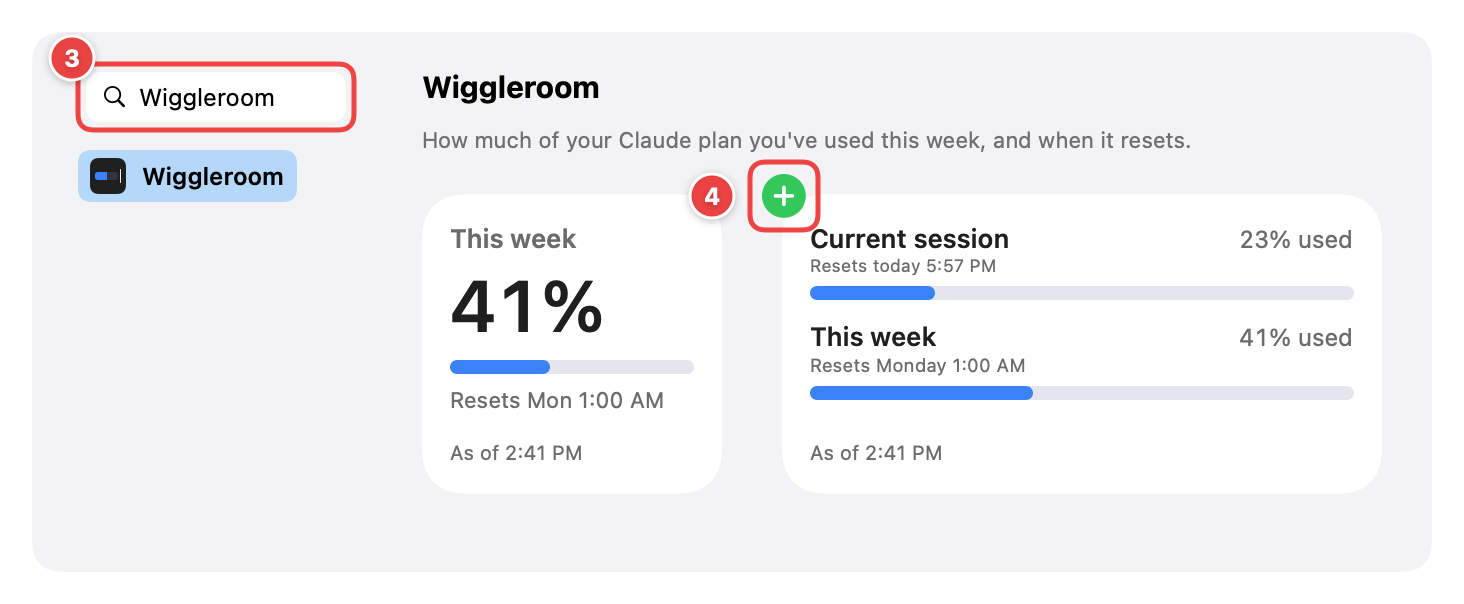
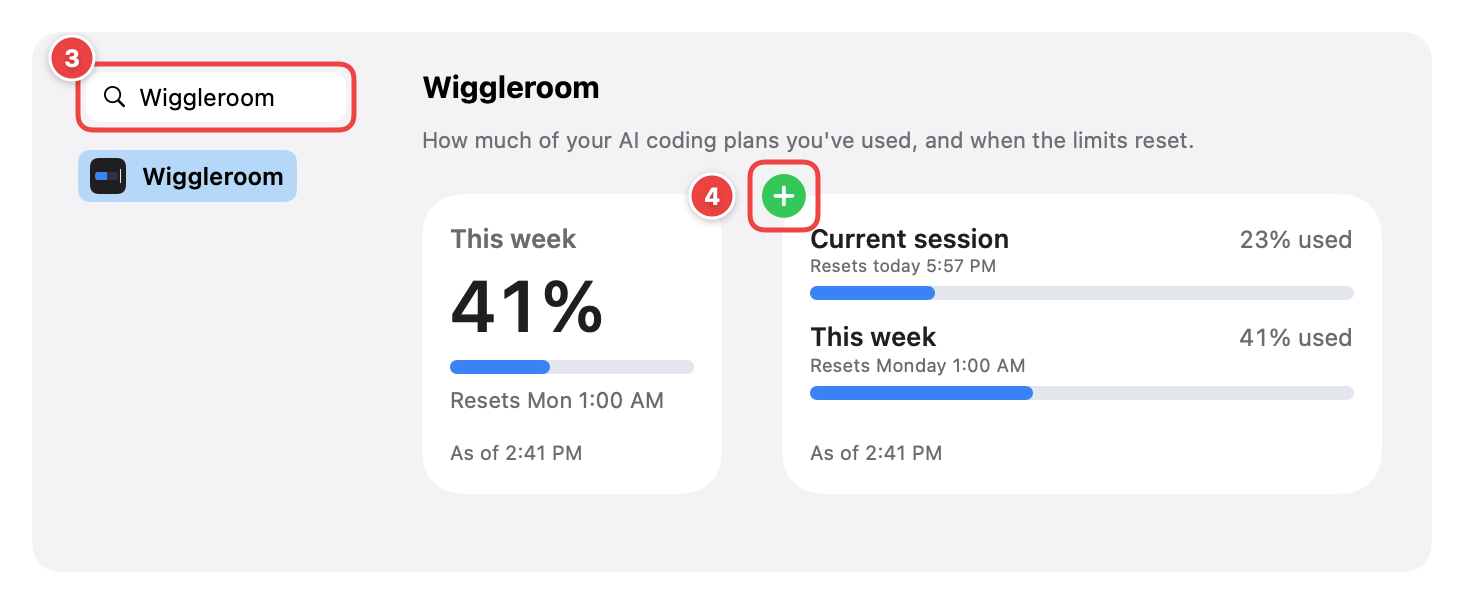
Docs for 0.2.0: Codex, Tools, docs/TOOLS.md; version 0.2.0 (3)
- docs/TOOLS.md: supported tools, the ones not yet supported and why, how Codex's log is read.
- README, install guide (step 5: add Codex), privacy (reading Codex), site, release notes.
- Version 0.2.0, build 3; cask version 0.2.0 (checksum after the release).

Changed region(s): [[0.3996, 0.2086, 0.7992, 0.2682]]

diff --git a/site/index.html b/site/index.html
@@ -3,8 +3,8 @@
 <head>
 <meta charset="utf-8">
 <meta name="viewport" content="width=device-width, initial-scale=1">
-<title>Wiggleroom: Claude plan usage on your Mac</title>
-<meta name="description" content="A free, open-source Mac widget that shows how much of your Claude plan's weekly and 5-hour limits you've used, and when they reset. No sign-in, no network, no tokens.">
+<title>Wiggleroom: every AI coding limit in one glance</title>
+<meta name="description" content="A free, open-source Mac widget that shows how much of your Claude Code and Codex plans' weekly and 5-hour limits you've used, and when they reset. No sign-in, no network, no tokens.">
 <link rel="icon" href="icon.svg" type="image/svg+xml">
 <style>
   :root {
@@ -58,24 +58,24 @@
     <img src="icon.svg" alt="">
     <h1>Wiggleroom</h1>
   </header>
-  <p class="tag">See how much of your Claude plan you've used this week, and when it resets, right in your Mac's Notification Center.</p>
+  <p class="tag">Every AI coding limit in one glance. See how much of your Claude Code and Codex plans you've used, and when the limits reset, right in your Mac's Notification Center.</p>
 
   <div class="hero">
-    <div class="widget" role="img" aria-label="Example widget: current session 23% used, this week 41% used">
+    <div class="widget" role="img" aria-label="Example widget, All tools: Codex 64% used this week, Claude Code 41% used this week">
       <div class="row">
-        <div class="top"><span class="label">Current session</span><span class="pct">23% used</span></div>
-        <div class="reset">Resets in 3 hr 12 min</div>
-        <div class="bar"><span style="width:23%"></span></div>
+        <div class="top"><span class="label">Codex</span><span class="pct">64% used</span></div>
+        <div class="reset">This week · resets Mon 1:00 AM</div>
+        <div class="bar"><span style="width:64%"></span></div>
       </div>
       <div class="row">
-        <div class="top"><span class="label">This week</span><span class="pct">41% used</span></div>
-        <div class="reset">Resets Monday 1:00 AM</div>
+        <div class="top"><span class="label">Claude Code</span><span class="pct">41% used</span></div>
+        <div class="reset">This week · resets Mon 1:00 AM</div>
         <div class="bar"><span style="width:41%"></span></div>
       </div>
       <div class="foot">As of 2:41 PM</div>
     </div>
     <div>
-      <p>Wiggleroom is a free, open-source widget for people who use <strong>Claude Code</strong> on a Pro, Max or Ultra plan. It shows the same numbers as the usage page in Claude's settings, without opening anything.</p>
+      <p>Wiggleroom is a free, open-source widget for people who use <strong>Claude Code</strong> on a Pro, Max or Ultra plan, <strong>Codex</strong> with a ChatGPT plan, or both. It shows the same numbers as each tool's own usage display, without opening anything.</p>
       <div class="cta">
         <a class="btn" href="https://github.com/garoknows/wiggleroom/releases/latest">Download for Mac</a>
         <a class="btn ghost" href="https://github.com/garoknows/wiggleroom">Source code</a>
@@ -86,29 +86,32 @@
 
   <h2>Private by design</h2>
   <div class="grid">
-    <div class="card"><h3>No sign-in</h3><p>Wiggleroom never asks for your Claude account and never reads tokens, passwords or browser cookies.</p></div>
+    <div class="card"><h3>No sign-in</h3><p>Wiggleroom never asks for your Claude or ChatGPT account and never reads tokens, passwords or browser cookies.</p></div>
     <div class="card"><h3>No internet</h3><p>There is no network code in the app or the widget. Your numbers never leave your Mac.</p></div>
-    <div class="card"><h3>Keeps almost nothing</h3><p>Only the percent used, the reset times and when they were updated. No prompts, folders, costs or account details.</p></div>
+    <div class="card"><h3>Keeps almost nothing</h3><p>Only the percent used, the reset times and when they were updated, for each tool. No prompts, folders, costs or account details.</p></div>
   </div>
 
   <h2>How it works</h2>
   <p>Every time Claude Code gets a reply, it hands your plan's usage numbers to its <em>status line</em>, a small command you can set up to show information under the prompt. Wiggleroom adds a tiny helper there that saves just those numbers and then runs your existing status line exactly as before.</p>
+  <p><strong>Codex</strong> writes a usage event into its own session log on your Mac after each reply. When you connect Codex, Wiggleroom reads only those numbers from the end of the newest log, read-only, and changes nothing in Codex.</p>
   <ol>
-    <li>Install Wiggleroom and open it.</li>
+    <li>Install Wiggleroom and open it (or <code>brew install --cask garoknows/tap/wiggleroom</code>).</li>
     <li>Click <strong>Connect to Claude Code</strong>. Wiggleroom backs up your Claude Code settings first, and <strong>Disconnect</strong> puts them back.</li>
-    <li>Add the Wiggleroom widget to Notification Center (click the date and time in the menu bar, then <strong>Edit Widgets</strong>).</li>
+    <li>Using Codex too? In Settings, under <strong>Tools</strong>, click <strong>Connect</strong> next to Codex.</li>
+    <li>Add the Wiggleroom widget to Notification Center (click the date and time in the menu bar, then <strong>Edit Widgets</strong>). Right-click it and choose <strong>Edit Widget</strong> to show Claude Code, Codex or All tools.</li>
   </ol>
+  <p>Wiggleroom adds a tool only when it hands out its limits in a way its maker supports. <a href="https://github.com/garoknows/wiggleroom/blob/main/docs/TOOLS.md">See which tools are supported and which are coming.</a></p>
 
   <h2>Good to know</h2>
   <ul>
-    <li><strong>Numbers update when Claude Code replies.</strong> Chats on claude.ai or in the Claude app use the same limits, but they show up in Wiggleroom at your next Claude Code reply. The "As of" time tells you how fresh the numbers are, and turns amber after 30 minutes.</li>
-    <li><strong>Reset times are always right,</strong> because Claude Code sends the exact moment each limit resets.</li>
-    <li>Optional alerts when you pass 90% of your weekly limit (or a level you choose), once per week.</li>
-    <li>Optional menu bar item with your weekly percent.</li>
+    <li><strong>Numbers update when a tool replies.</strong> Use on claude.ai, in the Claude app or in Codex's cloud counts toward the same limits, but shows up in Wiggleroom at the tool's next reply on your Mac. The "As of" time tells you how fresh the numbers are, and turns amber after 30 minutes.</li>
+    <li><strong>Reset times are always right,</strong> because both tools report the exact moment each limit resets.</li>
+    <li>Optional alerts when a tool passes 90% of a limit (or a level you choose), once per level, per tool, per limit.</li>
+    <li>Optional menu bar item with the weekly percent of whichever tool is closest to its limit.</li>
   </ul>
 
   <footer>
-    Wiggleroom is an independent open-source project (MIT License). It is not made by, affiliated with or endorsed by Anthropic. "Claude" is used only to describe what Wiggleroom works with.
+    Wiggleroom is an independent open-source project (MIT License). It is not made by, affiliated with or endorsed by Anthropic or OpenAI. "Claude", "Claude Code" and "Codex" are used only to describe what Wiggleroom works with.
   </footer>
 </main>
 </body>

diff --git a/Casks/wiggleroom.rb b/Casks/wiggleroom.rb
@@ -1,12 +1,12 @@
 # The Homebrew cask, published in garoknows/homebrew-tap (brew install --cask garoknows/tap/wiggleroom).
 # scripts/update-cask.sh fills in the version and sha256 from a release; copy the result to the tap.
 cask "wiggleroom" do
-  version "0.1.1"
[1 lines of base64/hex data omitted]
+  version "0.2.0"
+  sha256 "0000000000000000000000000000000000000000000000000000000000000000"
 
   url "https://github.com/garoknows/wiggleroom/releases/download/v#{version}/Wiggleroom-#{version}.dmg"
   name "Wiggleroom"
-  desc "Claude plan usage and reset times in Notification Center"
+  desc "Claude Code and Codex plan limits in Notification Center"
   homepage "https://garoknows.github.io/wiggleroom/"
 
   livecheck do

diff --git a/README.md b/README.md
@@ -1,19 +1,20 @@
 # Wiggleroom
 
-**Your Claude plan usage, in Mac Notification Center.** See how much of your weekly and 5-hour limits you've used, and when each one resets, without opening anything.
+**Every AI coding limit in one glance, in Mac Notification Center.** See how much of your Claude Code and Codex plans' weekly and 5-hour limits you've used, and when each one resets, without opening anything.
 
 <p>
-  <img src="docs/images/widget-medium-dark-normal.png" width="364" alt="Wiggleroom medium widget in dark mode: Current session 23% used, resets today 5:57 PM; This week 41% used, resets Monday 1:00 AM; as of 2:41 PM">
-  <img src="docs/images/widget-small-light-normal.png" width="170" alt="Wiggleroom small widget in light mode: This week 41%, resets Mon 1:00 AM">
+  <img src="docs/images/widget-medium-dark-all-tools.png" width="364" alt="Wiggleroom medium widget in dark mode, All tools: Codex 64% used this week, resets Monday 1:00 AM; Claude Code 41% used this week, resets Monday 1:00 AM; as of 2:41 PM">
+  <img src="docs/images/widget-small-light-normal.png" width="170" alt="Wiggleroom small widget in light mode: Claude Code, this week 41%, resets Mon 1:00 AM">
 </p>
 
-Wiggleroom is a free, open-source widget (plus an optional menu bar item) for people who use **Claude Code** on a Pro, Max or Ultra plan. It shows the same numbers as the usage page in Claude's settings.
+Wiggleroom is a free, open-source widget (plus an optional menu bar item) for people who use **Claude Code** on a Pro, Max or Ultra plan, **Codex** with a ChatGPT plan, or both. It shows the same numbers as each tool's own usage display.
 
-- **No sign-in, no tokens, no internet.** Wiggleroom has no network code at all. It never reads your Claude login, the Keychain or browser cookies.
-- **Keeps almost nothing.** Only the percent used, the reset times, the limit names and when they were updated.
-- **Leaves your setup alone.** Your existing Claude Code status line keeps working exactly as before, and Disconnect puts your settings back.
+- **No sign-in, no tokens, no internet.** Wiggleroom has no network code at all. It never reads your Claude or Codex login, the Keychain or browser cookies.
+- **Keeps almost nothing.** Only the percent used, the reset times, the limit names and when they were updated, for each tool.
+- **Leaves your setup alone.** Your existing Claude Code status line keeps working exactly as before, and Disconnect puts your settings back. Connecting Codex changes nothing in Codex.
+- **Only official channels.** A tool is added only when it hands out its limits in a way its maker supports. See [which tools are supported and which are coming](docs/TOOLS.md).
 
-[Website](https://garoknows.github.io/wiggleroom/) · [Download](https://github.com/garoknows/wiggleroom/releases) · [Install guide](docs/INSTALL.md) · [Privacy](docs/PRIVACY.md)
+[Website](https://garoknows.github.io/wiggleroom/) · [Download](https://github.com/garoknows/wiggleroom/releases) · [Install guide](docs/INSTALL.md) · [Tools](docs/TOOLS.md) · [Privacy](docs/PRIVACY.md)
 
 ## How it works
 
@@ -26,6 +27,8 @@ When you click **Connect to Claude Code**, Wiggleroom adds a tiny helper to that
 3. runs your previous status line command, if you had one, with the same input, so what you see in Claude Code doesn't change.
 
 The Wiggleroom app notices the new file, checks it, and passes it to the widget.
+
+**Codex** works differently, because it has no status line command yet. After each reply, Codex writes a usage event into its own session log on your Mac. When you click **Connect** next to Codex in Settings, Wiggleroom starts watching that folder and, after each reply, reads only the usage numbers from the end of the newest log, read-only. Nothing in Codex changes, and nothing else from the log is kept. [More about how Codex is read](docs/TOOLS.md#how-wiggleroom-treats-codexs-log).
 
 ```
 Claude Code ──(status line data)──> wiggleroom-statusline ──> your usual status line (unchanged)
@@ -40,6 +43,7 @@ Claude Code ──(status line data)──> wiggleroom-statusline ──> your u
 2. Open Wiggleroom from Applications. A setup window appears.
 3. Click **Connect to Claude Code**, then send any message in Claude Code.
 4. Add the widget: click the date and time in the menu bar, scroll down, click **Edit Widgets**, search for Wiggleroom, and click the green **+**.
+5. Use Codex too? Open Wiggleroom's Settings, go to **Tools**, and click **Connect** next to Codex. Then right-click the widget, choose **Edit Widget**, and set **Tool** to **All tools** (or Codex).
 
 <picture>
   <source media="(prefers-color-scheme: dark)" srcset="docs/images/window-setup-dark.png">
@@ -60,24 +64,25 @@ For one day this app was published as an unsigned preview called Headroom. It wa
 
 ## Good to know
 
-- **Numbers update when Claude Code replies.** Using Claude on claude.ai or in the Claude app counts toward the same limits, but Wiggleroom sees it only at your next Claude Code reply. The "As of" time shows how fresh the numbers are. It turns amber after 30 minutes, and the bars dim after 6 hours.
-- **Reset times are always right,** because Claude Code sends the exact moment each limit resets. After a reset, Wiggleroom says "Reset at 1:00 AM, waiting for new numbers" instead of guessing 0%.
+- **Numbers update when a tool replies.** Claude Code's numbers arrive with each Claude Code reply, and Codex's with each Codex reply. Using Claude on claude.ai, or Codex in the cloud, counts toward the same limits, but Wiggleroom sees it only at the tool's next reply on your Mac. The "As of" time shows how fresh the numbers are. It turns amber after 30 minutes, and the bars dim after 6 hours.
+- **Reset times are always right,** because both tools report the exact moment each limit resets. After a reset, Wiggleroom says "Reset at 1:00 AM, waiting for new numbers" instead of guessing 0%. Percentages round up, so Wiggleroom never shows less than you've used.
 - **Plans without a 5-hour limit** show only the weekly row.
-- **Signed in with an API key** (not a Claude plan)? Claude Code doesn't report plan limits then, so Wiggleroom has nothing to show.
-- **Alerts:** optional notifications when you pass 90% (or 75%) of your weekly limit, once per week each.
-- **Menu bar:** optional, off by default. Shows your weekly percent; click for the full card.
+- **Signed in with an API key** (not a Claude or ChatGPT plan)? The tool doesn't report plan limits then, so Wiggleroom says so instead of showing 0%.
+- **Widget:** right-click it and choose **Edit Widget** to pick the **Tool**: Claude Code, Codex or All tools. The small size shows one weekly limit (with All tools, whichever tool is closest to its limit); the medium size shows both limits of one tool, or one weekly row per tool.
+- **Alerts:** optional notifications when a tool passes 90% (or 75%) of a limit, at most once per level, per tool, per limit.
+- **Menu bar:** optional, off by default. Shows the weekly percent of whichever tool is closest to its limit (with a C or X tag when you use both), or the tool you pick in Settings. Click for every tool's card.
 - **Status line note:** Claude Code shows fewer keyboard hints whenever any status line is set. If you had no status line before, connecting Wiggleroom adds an empty one, so you may notice those hints are gone.
 
 ## Uninstall
 
-1. Open Wiggleroom's Settings and click **Disconnect** (or **Delete All Wiggleroom Data**, which also disconnects). Your previous status line comes back.
+1. Open Wiggleroom's Settings and click **Disconnect** next to Claude Code (or **Delete All Wiggleroom Data**, which also disconnects). Your previous status line comes back. Codex needs nothing undone.
 2. Click **Quit Wiggleroom** at the bottom of Settings, then drag Wiggleroom to the Trash.
 
 If you delete the app without disconnecting, your previous status line keeps working: the setting Wiggleroom wrote runs it directly when Wiggleroom is gone. Disconnecting is still the tidy way, because it removes Wiggleroom's entry from your settings. Backups of your settings are in `~/Library/Application Support/io.github.garoknows.wiggleroom/settings-backups/`.
 
 ## Privacy
 
-Wiggleroom stores two small files: the numbers file in `~/Library/Application Support/io.github.garoknows.wiggleroom/` (readable only by you) and a copy in the app's shared container for the widget. It never connects to the internet. See [docs/PRIVACY.md](docs/PRIVACY.md) for exactly what is stored and what is never touched.
+Wiggleroom stores a few small files of numbers: Claude Code's and Codex's in `~/Library/Application Support/io.github.garoknows.wiggleroom/` (readable only by you) and a copy in the app's shared container for the widget. It never connects to the internet, and it never writes anything in Codex's folder. See [docs/PRIVACY.md](docs/PRIVACY.md) for exactly what is stored and what is never touched.
 
 ## Build from source
 
@@ -93,4 +98,4 @@ Builds are signed "to run locally" by default. Unsigned builds can't share data 
 
 ## License and credits
 
-[MIT](LICENSE). Wiggleroom is an independent project. It is not made by, affiliated with or endorsed by Anthropic. "Claude" and "Claude Code" are used only to describe what Wiggleroom works with.
+[MIT](LICENSE). Wiggleroom is an independent project. It is not made by, affiliated with or endorsed by Anthropic or OpenAI. "Claude", "Claude Code" and "Codex" are used only to describe what Wiggleroom works with.

diff --git a/docs/RELEASE_NOTES.md b/docs/RELEASE_NOTES.md
@@ -1,39 +1,39 @@
-# Wiggleroom 0.1.1
+# Wiggleroom 0.2.0
 
-**A fix release.** Fixed: the setup and Settings windows were cut off at the edges, the menu bar popover had an empty gap, and reset times now show the weekday. Percentages now round up, like Claude's usage page.
+**Codex, and a Tools section.** Wiggleroom now shows your Codex plan's limits next to Claude Code's: every AI coding limit in one glance.
 
-- **Setup window:** the widget pictures now fit the window, so nothing is cut off on the left or right.
-- **Settings window:** every section fits inside the window, including when scroll bars are set to always show.
-- **Menu bar popover:** it is now exactly as tall as what it shows. A plan with only a weekly limit shows one row with no empty space.
-- **Reset times:** a reset up to 7 days away now reads like Claude's own usage page, for example "Resets Monday 1:00 AM" instead of "Resets Nov 16, 1:00 AM".
-- **Percentages:** they now round up, like Claude's usage page, so Wiggleroom never shows less than you've used: 3.2% shows as 4%. Exactly 0 still shows 0%, and 100% appears only when a limit is really used up.
+- **Codex:** in Settings, under the new **Tools** section, click **Connect** next to Codex. Connecting changes nothing in Codex: after each Codex reply, Wiggleroom reads only the usage numbers from the end of Codex's newest session log on your Mac, read-only. Works when you're signed in to Codex with ChatGPT. [How Codex is read](https://github.com/garoknows/wiggleroom/blob/main/docs/TOOLS.md).
+- **Widget "Tool" setting:** right-click the widget, choose **Edit Widget**, and pick **Claude Code**, **Codex** or **All tools**. Widgets you already have keep showing Claude Code.
+- **Popover:** one card per connected tool, the one closest to its limit first.
+- **Menu bar:** "Menu bar shows" picks **Highest of my tools** (the default), **Claude Code** or **Codex**. With both tools connected, a C or X tag says whose percent it is.
+- **Alerts for every tool and every limit:** 75% and 90% now apply to each tool's 5-hour and weekly limits, at most once per level each. For example: "Codex: 90% of your weekly limit used. Resets Monday 1:00 AM."
+- **Which tools are next:** Wiggleroom adds a tool only when it hands out its limits in a way its maker supports. [See which tools are supported and which are coming](https://github.com/garoknows/wiggleroom/blob/main/docs/TOOLS.md).
 
-To update: quit Wiggleroom from its menu, then replace it in Applications with the new version. You don't need to connect again.
+To update with Homebrew: `brew upgrade --cask wiggleroom`. Or quit Wiggleroom from its menu and replace it in Applications with the new version. You don't need to connect Claude Code again.
 
 Wiggleroom has been tested automatically but not yet on many Macs. Please report anything odd at github.com/garoknows/wiggleroom/issues.
 
-Wiggleroom shows how much of your Claude plan's usage limits you've used, and when each one resets, in a Notification Center widget, with an optional menu bar item.
-
 ## What's in it
 
-- Small and medium widgets: this week's limit, and the current 5-hour session when your plan has one. Light and dark mode.
+- Small and medium widgets, for Claude Code, Codex or All tools: weekly limits, and the 5-hour limits when your plan has them. Light and dark mode.
 - "As of" time that turns amber after 30 minutes; bars dim after 6 hours; a limit whose reset time has passed says so instead of guessing.
-- Connect and Disconnect in Settings. Your Claude Code settings are backed up first; your existing status line keeps working exactly as before.
-- Optional alert when you pass 90% (or 75%) of your weekly limit, once per week.
-- Optional menu bar item with your weekly percent.
-- "Delete all Wiggleroom data" in Settings.
+- A Tools section in Settings. Claude Code: your settings are backed up first, and your existing status line keeps working exactly as before. Codex: nothing in Codex changes.
+- Optional alerts when a tool passes 90% (or 75%) of a limit.
+- Optional menu bar item.
+- "Delete all Wiggleroom data" in Settings (covers Codex too, and never touches Codex's own folder).
 
 ## Changelog
 
+- **0.2.0:** Added Codex, the Tools section, the widget's Tool setting (Claude Code, Codex, All tools), one popover card per tool, the "Menu bar shows" picker, and alerts for every tool and limit.
 - **0.1.1:** Fixed: the setup and Settings windows were cut off at the edges, the menu bar popover had an empty gap, and reset times now show the weekday. Percentages now round up, like Claude's usage page.
 - **0.1.0:** First release. Renamed from Headroom, a one-day unsigned preview, because another Mac app already uses that name. If you tried Headroom, Connect takes over its place in your status line setting and keeps your own status line. See "Tried the Headroom preview?" in the install guide.
 
 ## Privacy
 
-Wiggleroom has no network code. It never reads your Claude sign-in, tokens or browser cookies. It keeps only the percent used, the reset times, the limit names and when they were updated.
+Wiggleroom has no network code. It never reads your Claude or Codex sign-in, tokens or browser cookies. From Codex's session log it keeps only the usage numbers. It keeps only the percent used, the reset times, the limit names and when they were updated.
 
 ## Requirements
 
-macOS 14 Sonoma or later, and Claude Code signed in with a Pro, Max or Ultra plan. The numbers update each time Claude Code gets a reply.
+macOS 14 Sonoma or later, and Claude Code signed in with a Pro, Max or Ultra plan, Codex signed in with ChatGPT, or both. The numbers update each time the tool gets a reply.
 
-Wiggleroom is an independent project, not affiliated with Anthropic.
+Wiggleroom is an independent project, not affiliated with Anthropic or OpenAI.

diff --git a/docs/PRIVACY.md b/docs/PRIVACY.md
@@ -7,7 +7,8 @@ Wiggleroom is built to know as little as possible.
 | What | Where | Who can read it |
 | --- | --- | --- |
 | Percent used of each limit, when each resets, the limit's name (like `seven_day`), and when the numbers arrived | `~/Library/Application Support/io.github.garoknows.wiggleroom/usage.json` | Only your user account (file permissions 0600, folder 0700) |
-| A copy of the same numbers for the widget | Wiggleroom's shared container (`~/Library/Group Containers/…io.github.garoknows.wiggleroom/snapshot.json`) | Only your user account |
+| Codex's percent used, reset times, window lengths and when the numbers arrived (only if you connect Codex) | `~/Library/Application Support/io.github.garoknows.wiggleroom/codex.json` | Only your user account (0600) |
+| A copy of the same numbers for the widget, one entry per connected tool | Wiggleroom's shared container (`~/Library/Group Containers/…io.github.garoknows.wiggleroom/snapshots.json`, plus `snapshot.json` with Claude Code's numbers, kept so an older Wiggleroom still works) | Only your user account |
 | Your choices (alerts, menu bar, setup done) | Wiggleroom's preferences | Only your user account |
 | Backups of `~/.claude/settings.json`, made before each Connect or Disconnect | `~/Library/Application Support/io.github.garoknows.wiggleroom/settings-backups/` | Only your user account |
 
@@ -22,8 +23,20 @@ Example of everything in the numbers file:
 - Your prompts, Claude's replies, file names, folders or projects.
 - Session IDs, model names, costs or spend amounts, or account details.
 - Your Claude sign-in: Wiggleroom never reads Claude Code's Keychain item or any token, never calls Anthropic's servers, and never reads claude.ai cookies or pages.
+- Your Codex sign-in or conversations: Wiggleroom never opens `~/.codex/auth.json` or any file in `~/.codex` other than session logs, never calls OpenAI's servers, and never keeps any text from a session log.
 
 Claude Code sends its status line much more than the usage numbers (for example the current folder and the model). Wiggleroom's helper reads only the `rate_limits` part, and an automated test feeds it a full sample and checks that nothing else ends up in the file.
+
+## Reading Codex (only if you connect it)
+
+A Codex session log holds your whole conversation, so Wiggleroom treats it with extra care:
+
+- It opens only the newest plain session log in `~/.codex/sessions/` from the last 7 days, **read-only**. It never changes, moves or locks it, and never follows a link to somewhere else.
+- It reads only the **last 256 KB** of that file.
+- It looks only at lines that are Codex usage events (`token_count`), and from those copies out only each limit's percent used, its length and its reset time, plus the event's time. Every other line, and every other part of those lines, is dropped without being stored, logged or shown.
+- An automated test fills an invented log with fake secrets (a fake prompt, a fake API key, a fake home folder path, secret text inside the usage event's other fields) and checks that none of it reaches the numbers, the saved file, the widget's file or anything on screen. It also checks that a 500 MB log is handled in under 50 milliseconds and 20 MB of memory, because only the end is read.
+
+Wiggleroom writes nothing in `~/.codex`. Disconnecting Codex deletes `codex.json` and removes Codex from the widget.
 
 ## No network
 
@@ -40,8 +53,8 @@ Wiggleroom edits `~/.claude/settings.json` only when you click **Connect** or **
 
 ## Deleting your data
 
-**Settings > Delete All Wiggleroom Data** disconnects from Claude Code, deletes both numbers files and resets Wiggleroom's preferences. Backups of your Claude Code settings are your own settings, so they're kept in `settings-backups/`; delete that folder yourself if you don't want them. If you tried the one-day Headroom preview (this app's name before it was renamed), it also clears that preview's folder, `~/Library/Application Support/io.github.garoknows.headroom/`, the same way. It never touches `~/Library/Application Support/Headroom/`, which belongs to an unrelated app.
+**Settings > Delete All Wiggleroom Data** disconnects from Claude Code and Codex, deletes every numbers file (Claude Code's, Codex's and the widget's copies) and resets Wiggleroom's preferences. It never touches anything in `~/.codex`. Backups of your Claude Code settings are your own settings, so they're kept in `settings-backups/`; delete that folder yourself if you don't want them. If you tried the one-day Headroom preview (this app's name before it was renamed), it also clears that preview's folder, `~/Library/Application Support/io.github.garoknows.headroom/`, the same way. It never touches `~/Library/Application Support/Headroom/`, which belongs to an unrelated app.
 
 ## Questions
 
-Open an issue at [github.com/garoknows/wiggleroom](https://github.com/garoknows/wiggleroom/issues). Wiggleroom is an independent open-source project, not affiliated with Anthropic.
+Open an issue at [github.com/garoknows/wiggleroom](https://github.com/garoknows/wiggleroom/issues). Wiggleroom is an independent open-source project, not affiliated with Anthropic or OpenAI.

diff --git a/docs/INSTALL.md b/docs/INSTALL.md
@@ -54,14 +54,28 @@ You can also put the widget on your desktop: right-click the desktop, choose **E
 
 ## 4. Check the numbers
 
-Compare the widget with **Settings > Usage** on claude.ai. They should match within a point. If the widget shows "Connect Wiggleroom to Claude Code", send another message in Claude Code and wait a few seconds.
+Compare the widget with **Settings > Usage** on claude.ai. They should match within a point (Wiggleroom rounds up, so it never shows less than you've used). If the widget shows "Connect Wiggleroom to Claude Code", send another message in Claude Code and wait a few seconds.
+
+## 5. Add Codex (optional)
+
+If you also use Codex with a ChatGPT plan:
+
+1. Open Wiggleroom's Settings (open Wiggleroom again from Applications) and find **Tools**.
+2. Click **Connect** next to Codex. It says "Connected. Your numbers appear after Codex's next reply."
+3. Run one prompt in Codex. Within a few seconds Wiggleroom shows Codex's 5-hour and weekly limits. Compare them with Codex's own limits display (`/status` in the Codex CLI); they should match within a point.
+4. Right-click the widget, choose **Edit Widget**, and set **Tool** to **All tools** to see both tools in one widget, or to **Codex** for Codex only. You can also add a second widget for each tool.
+
+What Connect does: nothing in Codex changes. Wiggleroom starts watching Codex's session folder (`~/.codex/sessions/`) and, after each Codex reply, reads only the usage numbers from the end of the newest session log, read-only. [How Codex is read](TOOLS.md#how-wiggleroom-treats-codexs-log).
+
+If Settings says "Codex not found on this Mac", Codex hasn't been installed or run yet. Run Codex once, then click **Check Again**. If it says "Codex isn't reporting plan limits", you're signed in to Codex with an API key; plan limits are only reported when you sign in with ChatGPT.
 
 ## Options
 
 In Wiggleroom's Settings:
 
-- **Alerts:** a notification when you pass 90% of your weekly limit (and 75% if you turn it on). Once per week each.
-- **Show in the menu bar:** your weekly percent next to a small gauge. Click it for the full card.
+- **Tools:** connect or disconnect Claude Code and Codex. "More tools" links to [which tools are supported and which are coming](TOOLS.md).
+- **Alerts:** a notification when a tool passes 90% of a limit (and 75% if you turn it on), for every connected tool and every limit, at most once per level, per tool, per limit. For example: "Codex: 90% of your weekly limit used. Resets Monday 1:00 AM."
+- **Show in the menu bar:** a weekly percent next to a small gauge. **Menu bar shows** picks whose: **Highest of my tools** (the default; when you use both tools, a C or X tag says which), **Claude Code** or **Codex**. Click it for every tool's card.
 - **Open at login:** keeps the widget current after a restart. On by default after setup.
 - **Reveal Data File** and **Delete All Wiggleroom Data**.
 
@@ -69,16 +83,20 @@ In Wiggleroom's Settings:
 
 | You see | It means |
 | --- | --- |
-| "As of 2:41 PM" in grey | Numbers from Claude Code's last reply at 2:41 PM. |
+| "As of 2:41 PM" in grey | Numbers from the tool's last reply at 2:41 PM. The medium widget names the tool on this line ("Codex · As of 2:41 PM"). |
 | "As of" in amber | The numbers are over 30 minutes old. Usage elsewhere (claude.ai, the Claude app) isn't counted until your next Claude Code reply. |
 | Dimmed bars | The numbers are over 6 hours old. |
 | "Reset at 1:00 AM, waiting for new numbers" | That limit has reset; fresh numbers come with your next Claude Code reply. |
 | "Connect Wiggleroom to Claude Code" | No numbers yet. Connect, then send a message in Claude Code. |
+| "Codex" with "Connect Codex in Wiggleroom's Settings" | The widget is set to Codex, but there are no Codex numbers yet. Connect Codex (step 5), then run a Codex prompt. |
+| One row per tool, titled with each tool's name | The widget's Tool is All tools. The tool closest to its limit comes first. |
 | "This copy of Wiggleroom can't share numbers with widgets" | You're running an unsigned build. Use the menu bar item, or install the signed release. |
 
 ## Uninstall
 
 1. In Wiggleroom's Settings, click **Disconnect** (your previous status line comes back), or **Delete All Wiggleroom Data** (also disconnects).
 2. Click **Quit Wiggleroom** at the bottom of Settings, then drag Wiggleroom to the Trash.
+
+Codex needs nothing undone: Wiggleroom never changed anything in Codex.
 
 Using Homebrew? `brew uninstall --cask wiggleroom` removes the app (your previous status line keeps working even if you skip step 1), and `--zap` also removes Wiggleroom's files.

diff --git a/docs/TOOLS.md b/docs/TOOLS.md
@@ -1,0 +1,42 @@
+# Which tools Wiggleroom supports
+
+Wiggleroom shows the usage limits of the AI coding tools you pay for. It adds a tool only when that tool hands out its plan's limits through a channel its own maker supports: something the tool gives Wiggleroom directly, or writes on your own Mac in a documented or visible form.
+
+Wiggleroom never uses your sign-in token, browser cookies, a browser session or an undocumented web address to get the numbers. That's what keeps it free of network code and safe to run.
+
+*Last checked: November 10, 2026.*
+
+## Supported
+
+| Tool | How Wiggleroom gets the numbers |
+| --- | --- |
+| **Claude Code** (Pro, Max and Ultra plans) | Claude Code hands its usage to its [status line](https://code.claude.com/docs/en/statusline) after every reply. Wiggleroom's small helper keeps only the numbers. Since Wiggleroom 0.1. |
+| **Codex** (signed in with ChatGPT) | After each reply, Codex writes a usage event into its own session log on your Mac (`~/.codex/sessions/`), with the same 5-hour and weekly numbers Codex shows in its limits display. Wiggleroom reads only those numbers, read-only, from the end of the newest log. Since Wiggleroom 0.2. |
+
+### How Wiggleroom treats Codex's log
+
+A Codex session log holds your whole conversation, so Wiggleroom is strict about it:
+
+- It opens only the newest session log from the last 7 days, read-only, and never changes, moves or locks it.
+- It reads only the last 256 KB, where the newest events are.
+- It looks only at Codex's usage events and copies out only the percent used, the window length, the reset time and the time of the event. Everything else is ignored and never stored, logged or shown.
+- An automated test fills an invented log with fake secrets and checks that none of them reaches anything Wiggleroom keeps or shows.
+
+Codex signed in with an API key (not ChatGPT) doesn't report plan limits, so Wiggleroom says so instead of showing 0%. Codex compresses a session after it ends; Wiggleroom doesn't read compressed logs, and doesn't need to, because the session that just replied is never compressed.
+
+## Not yet
+
+| Tool | Why not yet |
+| --- | --- |
+| **Grok Build** (xAI) | Its status line can run a command, but the information it hands over has no plan or quota fields, and xAI hasn't published Grok Build quotas. The `/usage` command shows credits on screen only. Waiting on xAI. |
+| **Gemini CLI** | No official way to read the remaining quota was found. `/stats` shows numbers only on screen, and counting session files would be a guess, not a reading. Google has also moved personal-plan users to a different tool this year. |
+| **GitHub Copilot CLI** | Its status line reports requests used in the current session, not your monthly allowance. The allowance is only in GitHub's billing service, which would need your token and the internet, and Wiggleroom has no network code. |
+
+If one of these starts handing out its plan's limits officially, Wiggleroom will add it. If you know of a change, [open an issue](https://github.com/garoknows/wiggleroom/issues).
+
+## Considered and set aside for Codex
+
+- **Asking Codex's background server for the limits.** Codex has a server mode with a call that returns rate limits, but using it would make Codex contact OpenAI in the background with your sign-in, on a timer. It's barely documented, and it would make "no network" harder to keep true.
+- **A Codex status line command.** Codex's status line offers only built-in items today; custom commands are an open feature request. If Codex adds them with limit fields, Wiggleroom will switch to that, the same way it works with Claude Code.
+
+Wiggleroom is an independent project. It is not made by, affiliated with or endorsed by Anthropic, OpenAI, xAI, Google or GitHub. Tool names are used only to say what Wiggleroom works with.
